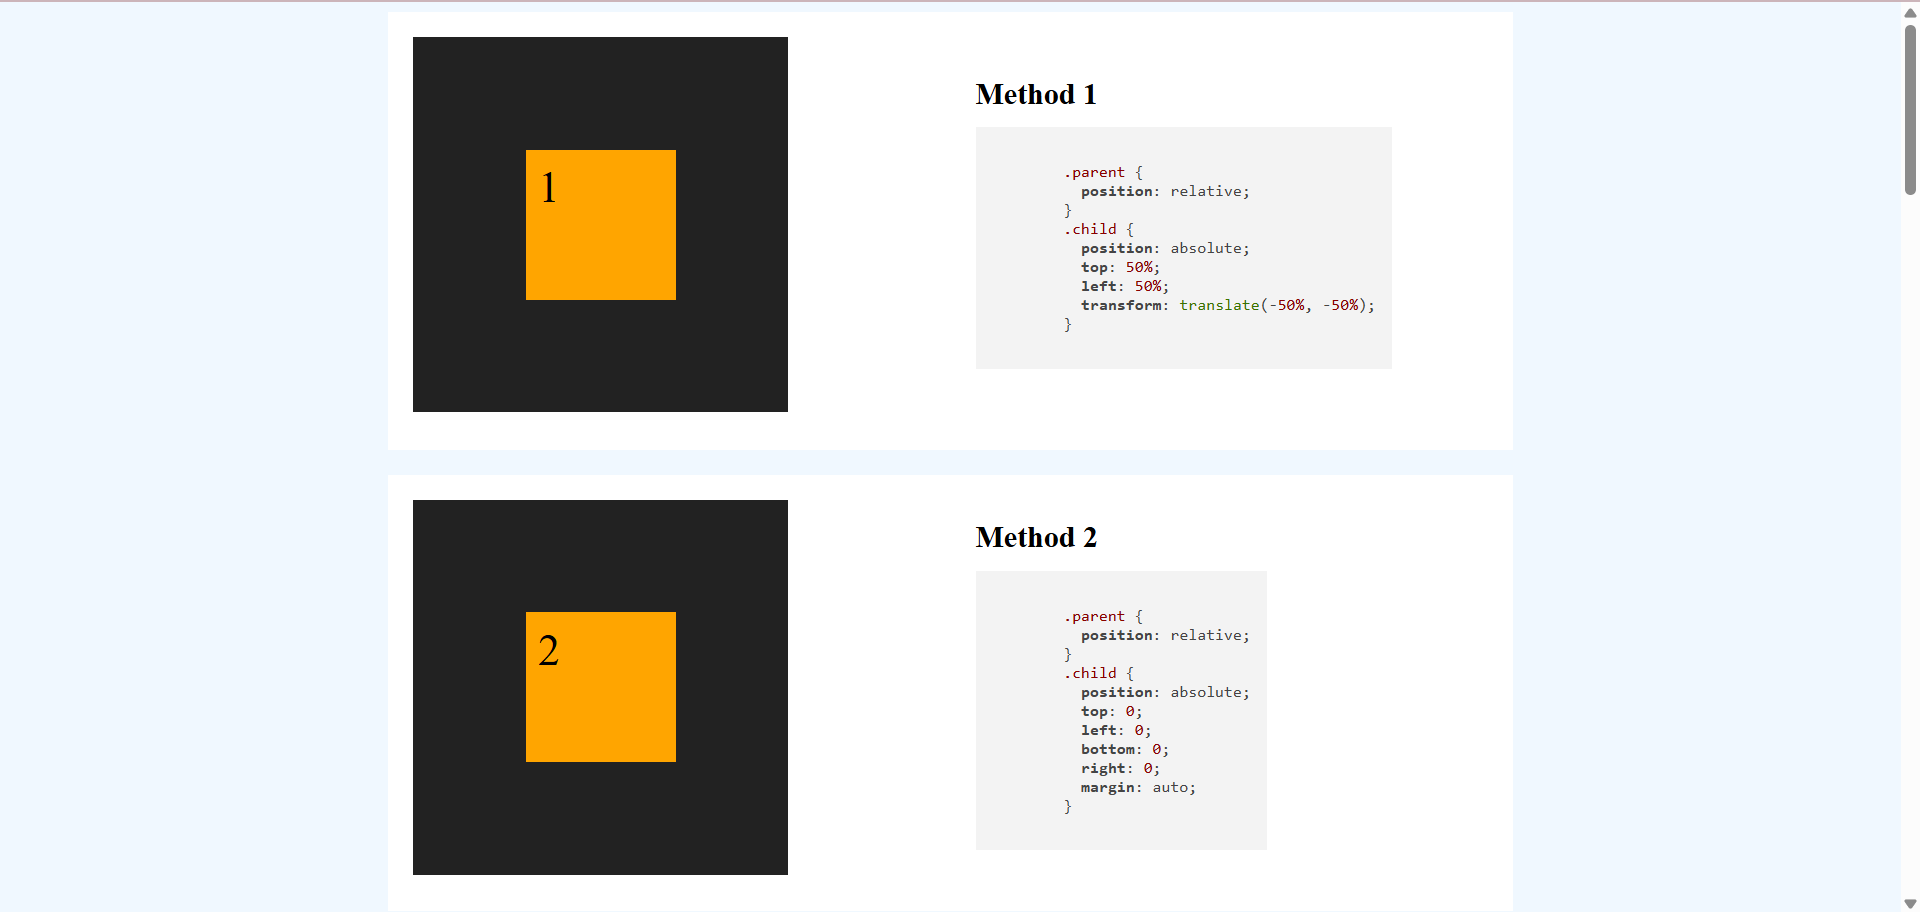
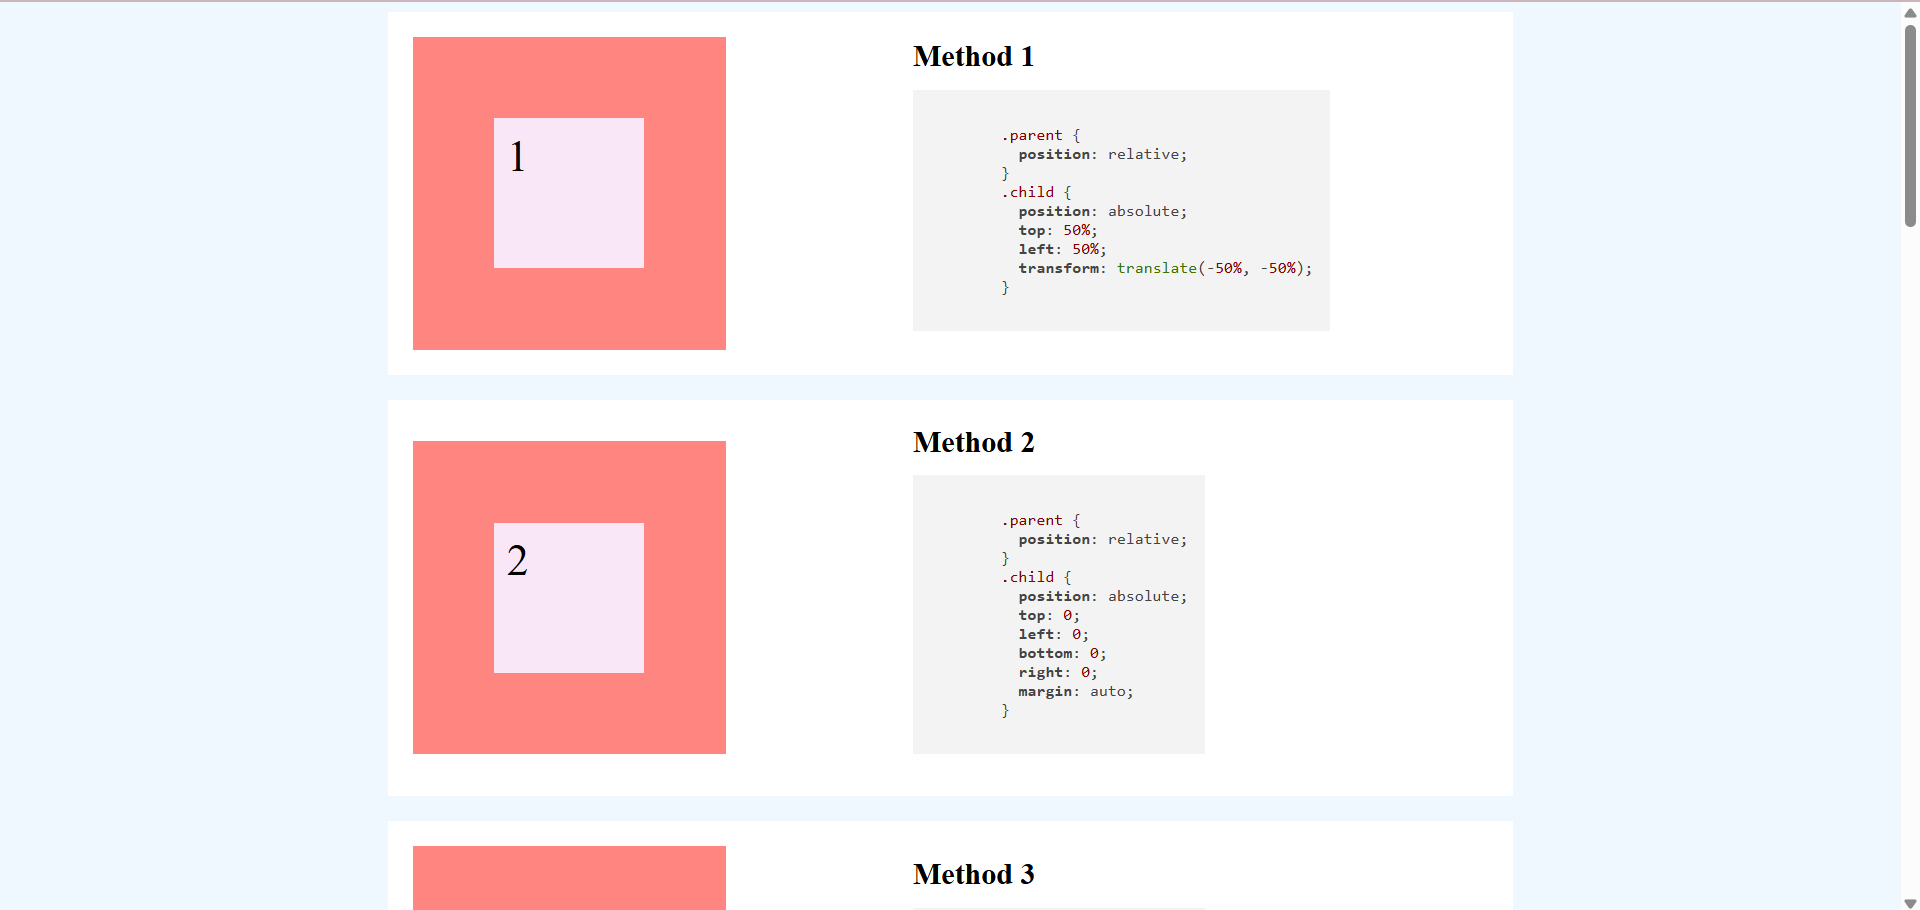
change design

diff --git a/css/style.css b/css/style.css
@@ -18,13 +18,12 @@ body {
   margin-left: 150px
 }
 .parent {
-  width: 300px;
-  height: 300px;
-  background: #222;
-  margin-bottom: 10px;
+  width: 250px;
+  height: 250px;
+  background: #ff8680;
 }
 .child {
-  background: orange;
+  background: #f9e7f8;
   width: 100px;
   height: 100px;
   padding: 10px;
